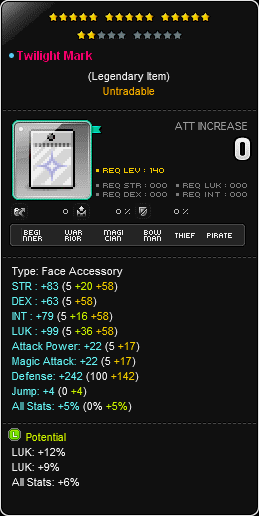
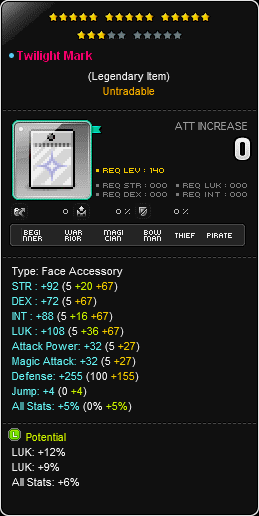
Update equip stars and potentials

diff --git a/data/equips.ts b/data/equips.ts
@@ -12,7 +12,7 @@ export const equips: Equip[] = [
   {
     name: 'Ring 3',
     stars: [19, 0, 0],
-    potential: [21, 20, 20],
+    potential: [30, 20, 20],
     image: images.ring3,
     alt: [images.ring3_meso, images.ring3_drop],
   },
@@ -83,7 +83,7 @@ export const equips: Equip[] = [
   },
   {
     name: 'Face',
-    stars: [17, 17, 17],
+    stars: [18, 17, 17],
     potential: [27, 20, 20],
     image: images.face,
     alt: [images.face_meso, images.face_drop],
@@ -113,13 +113,13 @@ export const equips: Equip[] = [
   {
     name: 'Earring',
     stars: [22, 17, 17],
-    potential: [21, 20, 20],
+    potential: [24, 20, 20],
     image: images.earring,
     alt: [images.earring_meso, images.earring_drop],
   },
   {
     name: 'Shoulder',
-    stars: [17, null, null],
+    stars: [18, null, null],
     potential: [27, null, null],
     image: images.shoulder,
     alt: [null, null],
@@ -140,7 +140,7 @@ export const equips: Equip[] = [
   },
   {
     name: 'Shoe',
-    stars: [17, null, null],
+    stars: [18, null, null],
     potential: [30, null, null],
     image: images.shoe,
     alt: [null, null],
